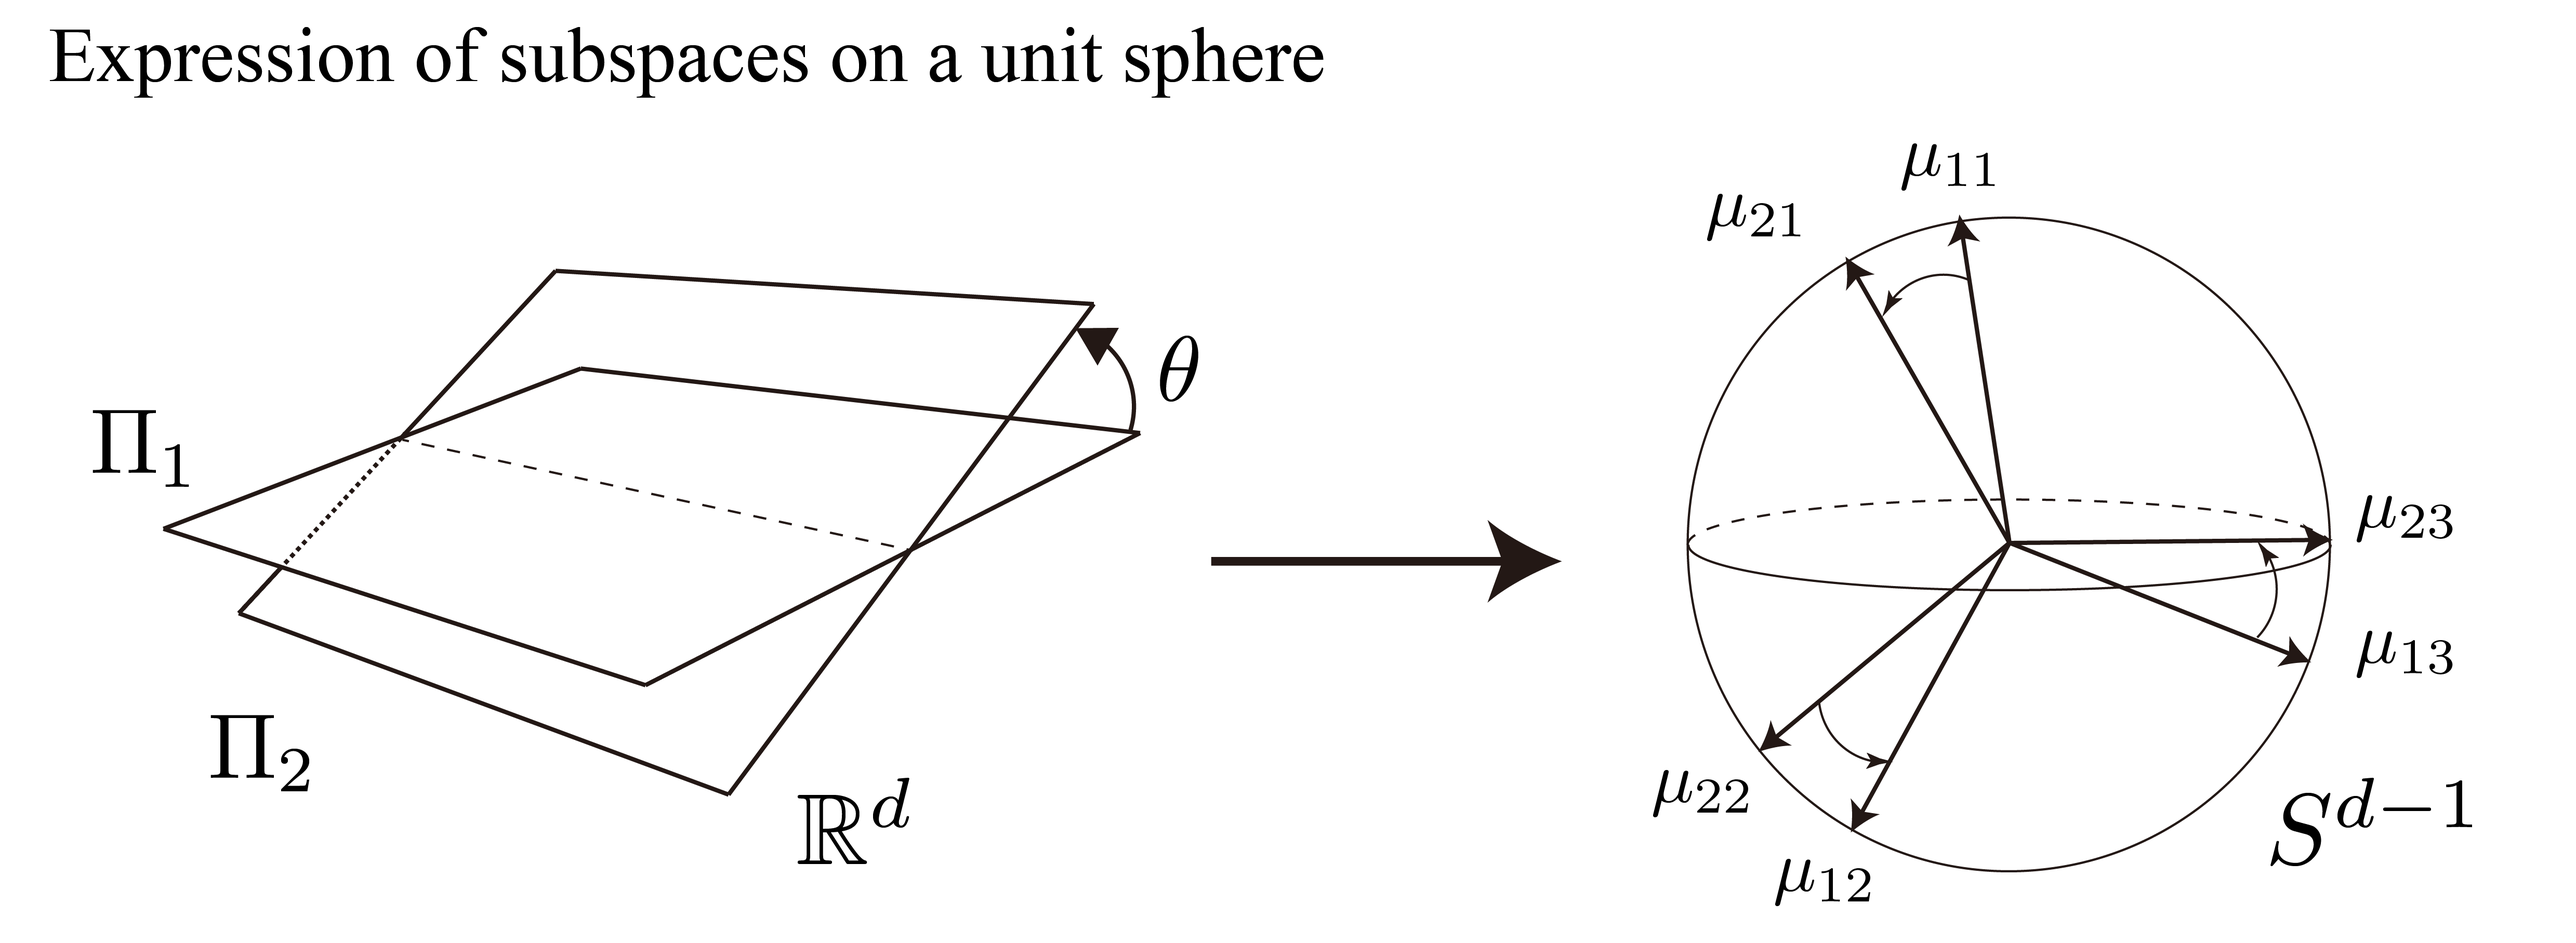
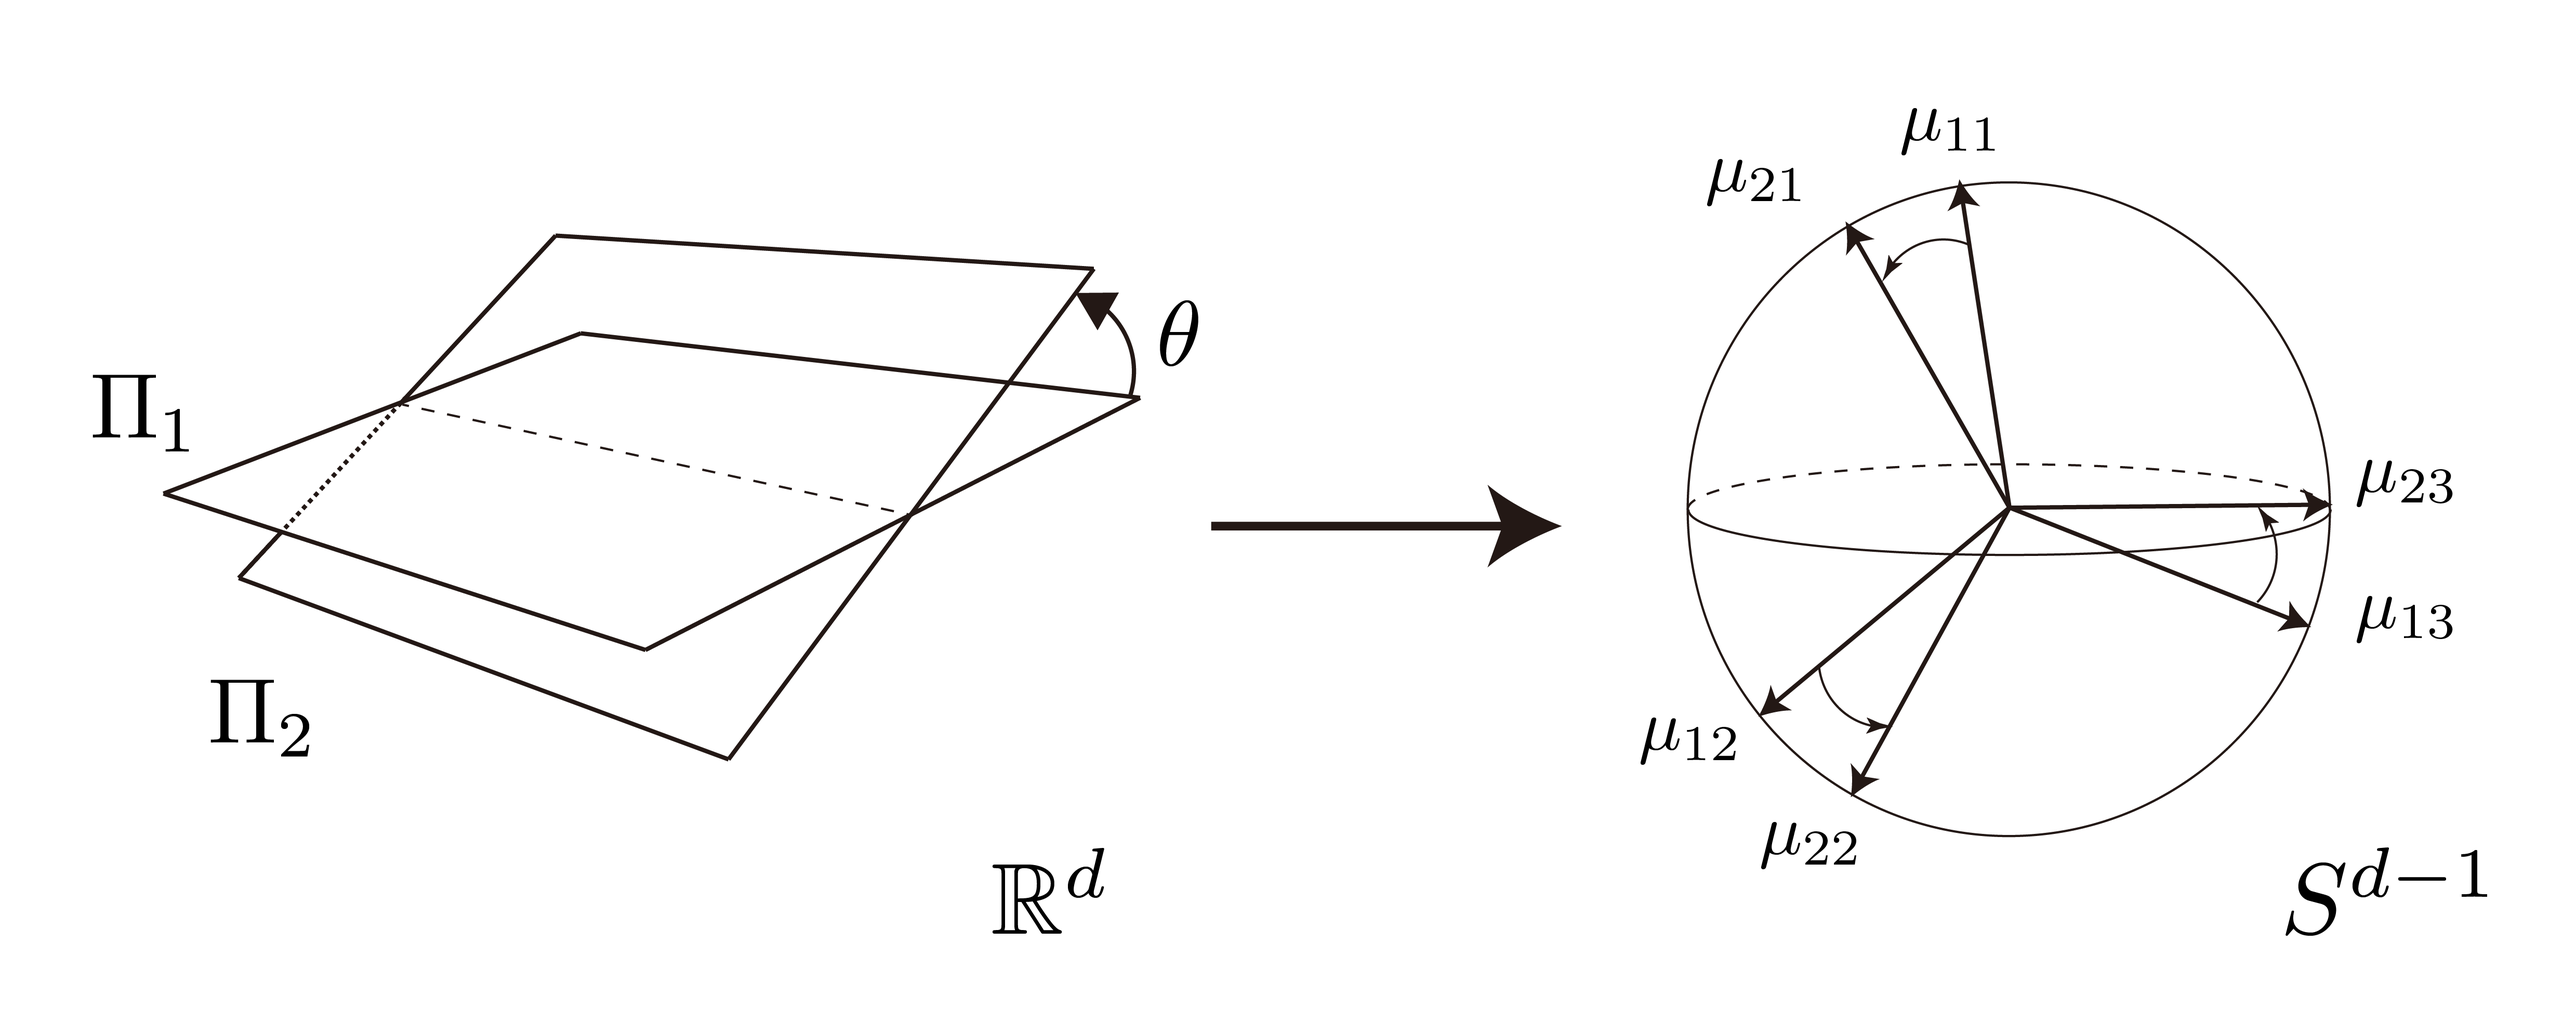
fix: replace figure

diff --git a/index.html b/index.html
@@ -177,7 +177,7 @@
                   </div>
                   
                   <div class="RTopics10">
-                     <figure_RTopic><img src="./topics/JMIV2024.png" width="500px" height="190px" alt="GeodesicDistancee"></figure_RTopic> <!-- 500, 230 / 400 184 -->
+                     <figure_RTopic><img src="./topics/JMIV2024.png" width="500px" height="200px" alt="GeodesicDistancee"></figure_RTopic> <!-- 500, 230 / 400 184 -->
                      <div class="RTopicsText ">
                         <div class="RTopicsPaperText">
                            <div class="PaperTitle">Subspace method on a unit shpere</div>

diff --git a/base.css b/base.css
@@ -174,7 +174,7 @@ div.RTopics9 {
 div.RTopics10 {
    text-align: left;
    margin: 10px 2px 20px 10px;
-   height: 200px;
+   height: 220px;
 }
 
 div.RTopicsText {
